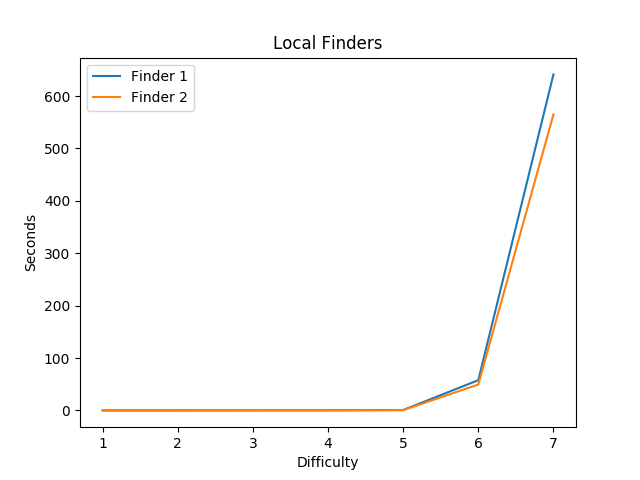
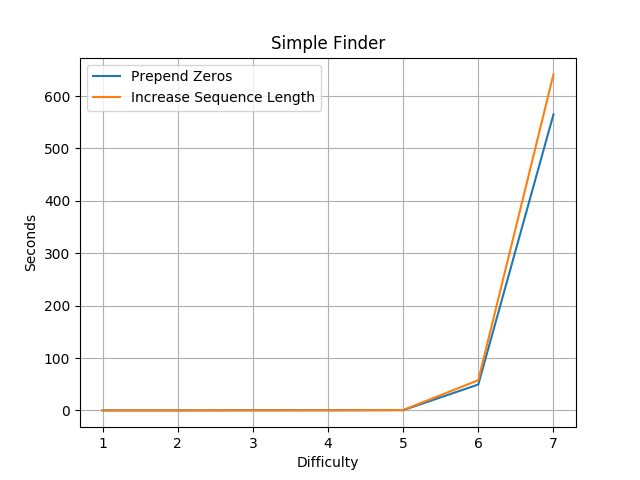
Figures for Report

diff --git a/out/plotter.py b/out/plotter.py
@@ -10,11 +10,12 @@ def simple_finder_performance():
   is_finder_2 = data['finder'] == 2
   local_2 = data[is_local & is_finder_2]
   difficulty = range(1, 8)
-  plt.plot(difficulty, local_1['seconds'], label="Finder 1")
-  plt.plot(difficulty, local_2['seconds'], label="Finder 2")
+  plt.plot(difficulty, local_2['seconds'], label="Prepend Zeros")
+  plt.plot(difficulty, local_1['seconds'], label="Increase Sequence Length")
   plt.xlabel('Difficulty')
   plt.ylabel('Seconds')
-  plt.title("Local Finders")
+  plt.title("Simple Finder")
+  plt.grid()
   plt.legend()
   plt.savefig("out/performance-local-finder.png")
 
@@ -25,9 +26,9 @@ def cloud_finder_performance(difficulty):
   plt.plot(range(1, 8), mean_time_by_n_workers['seconds'])
   plt.xlabel('Number of workers')
   plt.ylabel('Seconds')
-  plt.title(f"Difficulty {difficulty}")
+  plt.title(f"Cloud Search - Difficulty {difficulty}")
   axes = plt.gca()
-  axes.set_ylim([0, mean_time_by_n_workers['seconds'].max()])
+  axes.set_ylim([0, mean_time_by_n_workers['seconds'].max() + 10])
   plt.grid()
   plt.savefig(f"out/perf-cloud-diff-{difficulty}.png")
 
